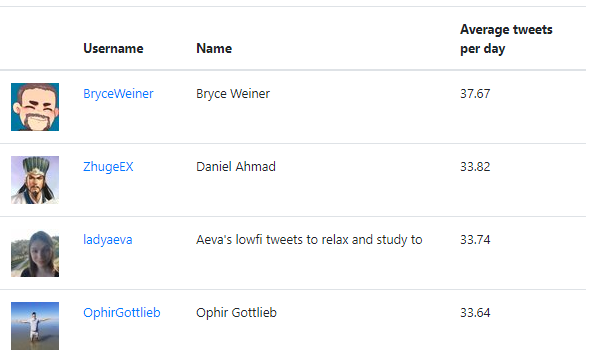
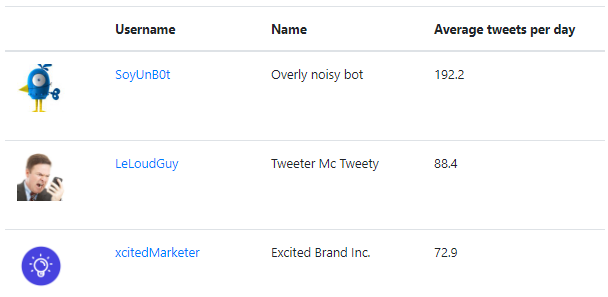
Homepage example image

diff --git a/routes/testdata/example-table.html b/routes/testdata/example-table.html
@@ -1,0 +1,42 @@
+<table class="table display dataTable no-footer" id="reccs" role="grid" aria-describedby="reccs_info">
+    <thead>
+    <tr role="row">
+        <th class="sorting" tabindex="0" aria-controls="reccs" rowspan="1" colspan="1"
+            aria-label=": activate to sort column ascending" style="width: 145.333px;"></th>
+        <th class="sorting" tabindex="0" aria-controls="reccs" rowspan="1" colspan="1"
+            aria-label="Username: activate to sort column ascending" style="width: 276px;">Username
+        </th>
+        <th class="sorting" tabindex="0" aria-controls="reccs" rowspan="1" colspan="1"
+            aria-label="Name: activate to sort column ascending" style="width: 339.333px;">Name
+        </th>
+        <th class="sorting_desc" tabindex="0" aria-controls="reccs" rowspan="1" colspan="1"
+            aria-label="Average tweets per day: activate to sort column ascending" style="width: 366.667px;"
+            aria-sort="descending">Average tweets per day
+        </th>
+    </tr>
+    </thead>
+    <tbody>
+    <tr role="row" class="odd">
+        <td class=""><img
+                src="https://pbs.twimg.com/profile_images/378800000614765076/5bd148955254eaaa415bbb3b3dc8c025_reasonably_small.jpeg"
+                width="48"></td>
+        <td><a href="https://www.twitter.com/ArlanWasHere">SoyUnB0t</a></td>
+        <td>Overly noisy bot</td>
+        <td class="sorting_1">192.2</td>
+    </tr>
+    <tr role="row" class="odd">
+        <td class=""><img src="https://pbs.twimg.com/profile_images/552595603687874561/Yd-jBihK_200x200.jpeg"
+                          width="48"></td>
+        <td><a href="https://www.twitter.com/ArlanWasHere">LeLoudGuy</a></td>
+        <td>Tweeter Mc Tweety</td>
+        <td class="sorting_1">88.4</td>
+    </tr>
+    <tr role="row" class="odd">
+        <td class=""><img src="https://pbs.twimg.com/profile_images/1133108737949020160/zftloFSP_200x200.png"
+                          width="48"></td>
+        <td><a href="https://www.twitter.com/6Gems">xcitedMarketer</a></td>
+        <td>Excited Brand Inc.</td>
+        <td class="sorting_1">72.9</td>
+    </tr>
+    </tbody>
+</table>

diff --git a/twitter-client.js b/twitter-client.js
@@ -1,11 +1,15 @@
 /* Twitter client - app settings: https://apps.twitter.com/app/5573851/settings */
 
+const debug = require('debug')('lessnoise:twitter-client')
+
 const oauth = require('oauth')
 
 const _twitterConsumerKey = process.env.KEY
 const _twitterConsumerSecret = process.env.SECRET
 const callbackString = process.env.NODE_ENV === "production" ? "https://glacial-ravine-68340.herokuapp.com/signin/callback" :
     "http://localhost:" + process.env.PORT  + "/signin/callback"
+
+debug(callbackString)
 
 module.exports = new oauth.OAuth(
   "https://twitter.com/oauth/request_token", "https://twitter.com/oauth/access_token",

diff --git a/public/stylesheets/style.css b/public/stylesheets/style.css
@@ -12,6 +12,7 @@ html { height: 100%; }
 body {
     margin: 20px;
     min-height:100%;
+    max-width: 900px;
     position:relative;
     padding-bottom: 50px;
 }
@@ -46,6 +47,7 @@ body {
 
 .table{
     font-size: 0.8rem;
+    max-width: 600px;
 }
 
 table td{
@@ -62,6 +64,16 @@ footer {
 
 img{
     margin-bottom: 1rem;
+}
+
+div.homepage-image{
+    max-width: 608px;
+}
+
+div.caption{
+    font-style: italic;
+    font-size: 0.75rem;
+    text-align: center;
 }
 
 /*img#image-preview{*/
